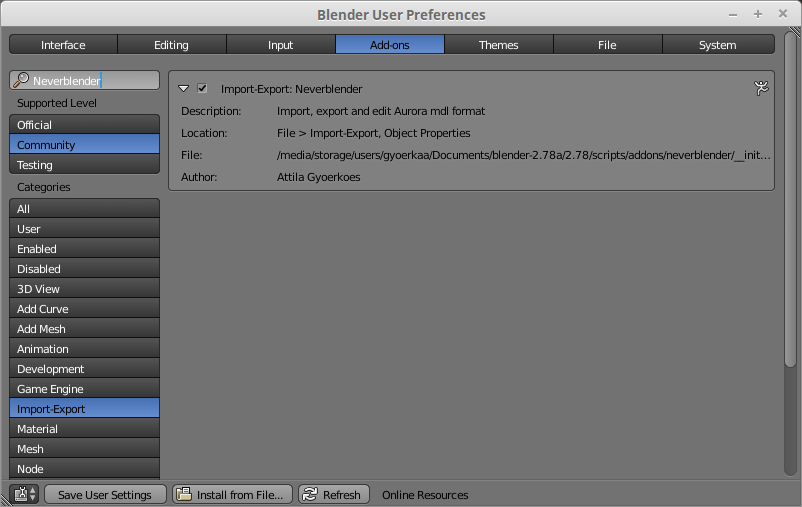
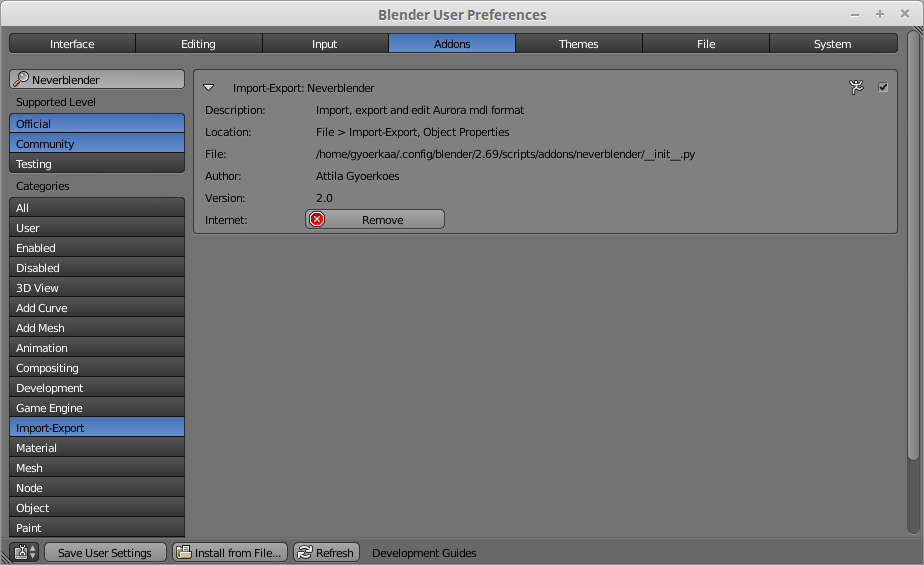
manual

Changed region(s): [[0.0, 0.0, 1.0, 1.0]]

diff --git a/manual/preamble/packages.tex b/manual/preamble/packages.tex
@@ -85,49 +85,49 @@
 
 % Part text styling
 \titlecontents{part}[0cm]
-{\addvspace{20pt}\centering\large\bfseries}
-{}
-{}
-{}
+    {\addvspace{20pt}\centering\large\bfseries}
+    {}
+    {}
+    {}
 
 % Chapter text styling
 \titlecontents{chapter}[1.25cm] % Indentation
-{\addvspace{12pt}\large\sffamily\bfseries} % Spacing and font options for chapters
-{\color{maincolor!60}\contentslabel[\Large\thecontentslabel]{1.25cm}\color{maincolor}} % Chapter number
-{\color{maincolor}}  
-{\color{maincolor!60}\normalsize\;\titlerule*[.5pc]{.}\;\thecontentspage} % Page number
+    {\addvspace{12pt}\large\sffamily\bfseries} % Spacing and font options for chapters
+    {\color{maincolor!60}\contentslabel[\Large\thecontentslabel]{1.25cm}\color{maincolor}} % Chapter number
+    {\color{maincolor}}  
+    {\color{maincolor!60}\normalsize\;\titlerule*[.5pc]{.}\;\thecontentspage} % Page number
 
 % Section text styling
 \titlecontents{section}[1.25cm] % Indentation
-{\addvspace{3pt}\sffamily\bfseries} % Spacing and font options for sections
-{\contentslabel[\thecontentslabel]{1.25cm}} % Section number
-{}
-{\hfill\color{black}\thecontentspage} % Page number
-[]
+    {\addvspace{3pt}\sffamily\bfseries} % Spacing and font options for sections
+    {\contentslabel[\thecontentslabel]{1.25cm}} % Section number
+    {}
+    {\hfill\color{black}\thecontentspage} % Page number
+    []
 
 % Subsection text styling
 \titlecontents{subsection}[1.25cm] % Indentation
-{\addvspace{1pt}\sffamily\small} % Spacing and font options for subsections
-{\contentslabel[\thecontentslabel]{1.25cm}} % Subsection number
-{}
-{\ \titlerule*[.5pc]{.}\;\thecontentspage} % Page number
-[]
+    {\addvspace{1pt}\sffamily\small} % Spacing and font options for subsections
+    {\contentslabel[\thecontentslabel]{1.25cm}} % Subsection number
+    {}
+    {\ \titlerule*[.5pc]{.}\;\thecontentspage} % Page number
+    []
 
 % List of figures
 \titlecontents{figure}[0em]
-{\addvspace{-5pt}\sffamily}
-{\thecontentslabel\hspace*{1em}}
-{}
-{\ \titlerule*[.5pc]{.}\;\thecontentspage}
-[]
+    {\addvspace{-5pt}\sffamily}
+    {\thecontentslabel\hspace*{1em}}
+    {}
+    {\ \titlerule*[.5pc]{.}\;\thecontentspage}
+    []
 
 % List of tables
 \titlecontents{table}[0em]
-{\addvspace{-5pt}\sffamily}
-{\thecontentslabel\hspace*{1em}}
-{}
-{\ \titlerule*[.5pc]{.}\;\thecontentspage}
-[]
+    {\addvspace{-5pt}\sffamily}
+    {\thecontentslabel\hspace*{1em}}
+    {}
+    {\ \titlerule*[.5pc]{.}\;\thecontentspage}
+    []
 
 %-------------------------------------------------------------------------------
 % MINI TABLE OF CONTENTS IN PART HEADS
@@ -153,8 +153,6 @@
 {}
 {}
 {}
-
-
 
 \usepackage[os=win]{menukeys}
 \renewmenumacro{\menu}[>]{roundedmenus}

diff --git a/manual/content/installation.tex b/manual/content/installation.tex
@@ -11,10 +11,16 @@ click \menu{Install from File...}. Then navigate to the file you downloaded and 
 \end{enumerate}
 Manual installation is possible by extracting the contents of the downloaded archive and 
 placing the \directory{neverblender} folder in Blender's \directory{scripts/addons} directory. 
-It is recommended to also install the \href{https://wiki.blender.org/index.php/Extensions:2.6/Py/Scripts/Animation/AnimAll}{AnimAll}\footnote{https://wiki.blender.org/index.php/Extensions:2.6/Py/Scripts/Animation/AnimAll} add-on, which will facilitate the 
+It is recommended to also install the \href{https://wiki.blender.org/index.php/Extensions:2.6/Py/Scripts/Animation/AnimAll}{AnimAll}\footnote{\href{https://wiki.blender.org/index.php/Extensions:2.6/Py/Scripts/Animation/AnimAll}{https://wiki.blender.org/index.php/Extensions:2.6/Py/Scripts/Animation/AnimAll}} add-on, which will facilitate the 
 editing of Animmeshes (= Meshes with animated texture coordinates). \textit{AnimAll} ships with 
-blender, but is disabled by default. It is listed in the Add-on section of the User 
-Preferences as \textit{Animation: AnimAll}.
+blender, but is disabled by default. It is listed as \textit{Animation: AnimAll}.
+
+\begin{figure}[hb]
+    \centering
+    \includegraphics[width=\linewidth]{window_userprefs}
+    %\caption[Close up of \species{Hemidactylus}]
+    %{Close up of \species{Hemidactylus}, which is part the genus of the gecko family. It is the second most speciose genus in the family.}
+\end{figure}
 
 \section{User Interface}
 Once installed, additional entries are available in Blender's menu: \menu{File > Import > Aurora (.mdl)} and 
